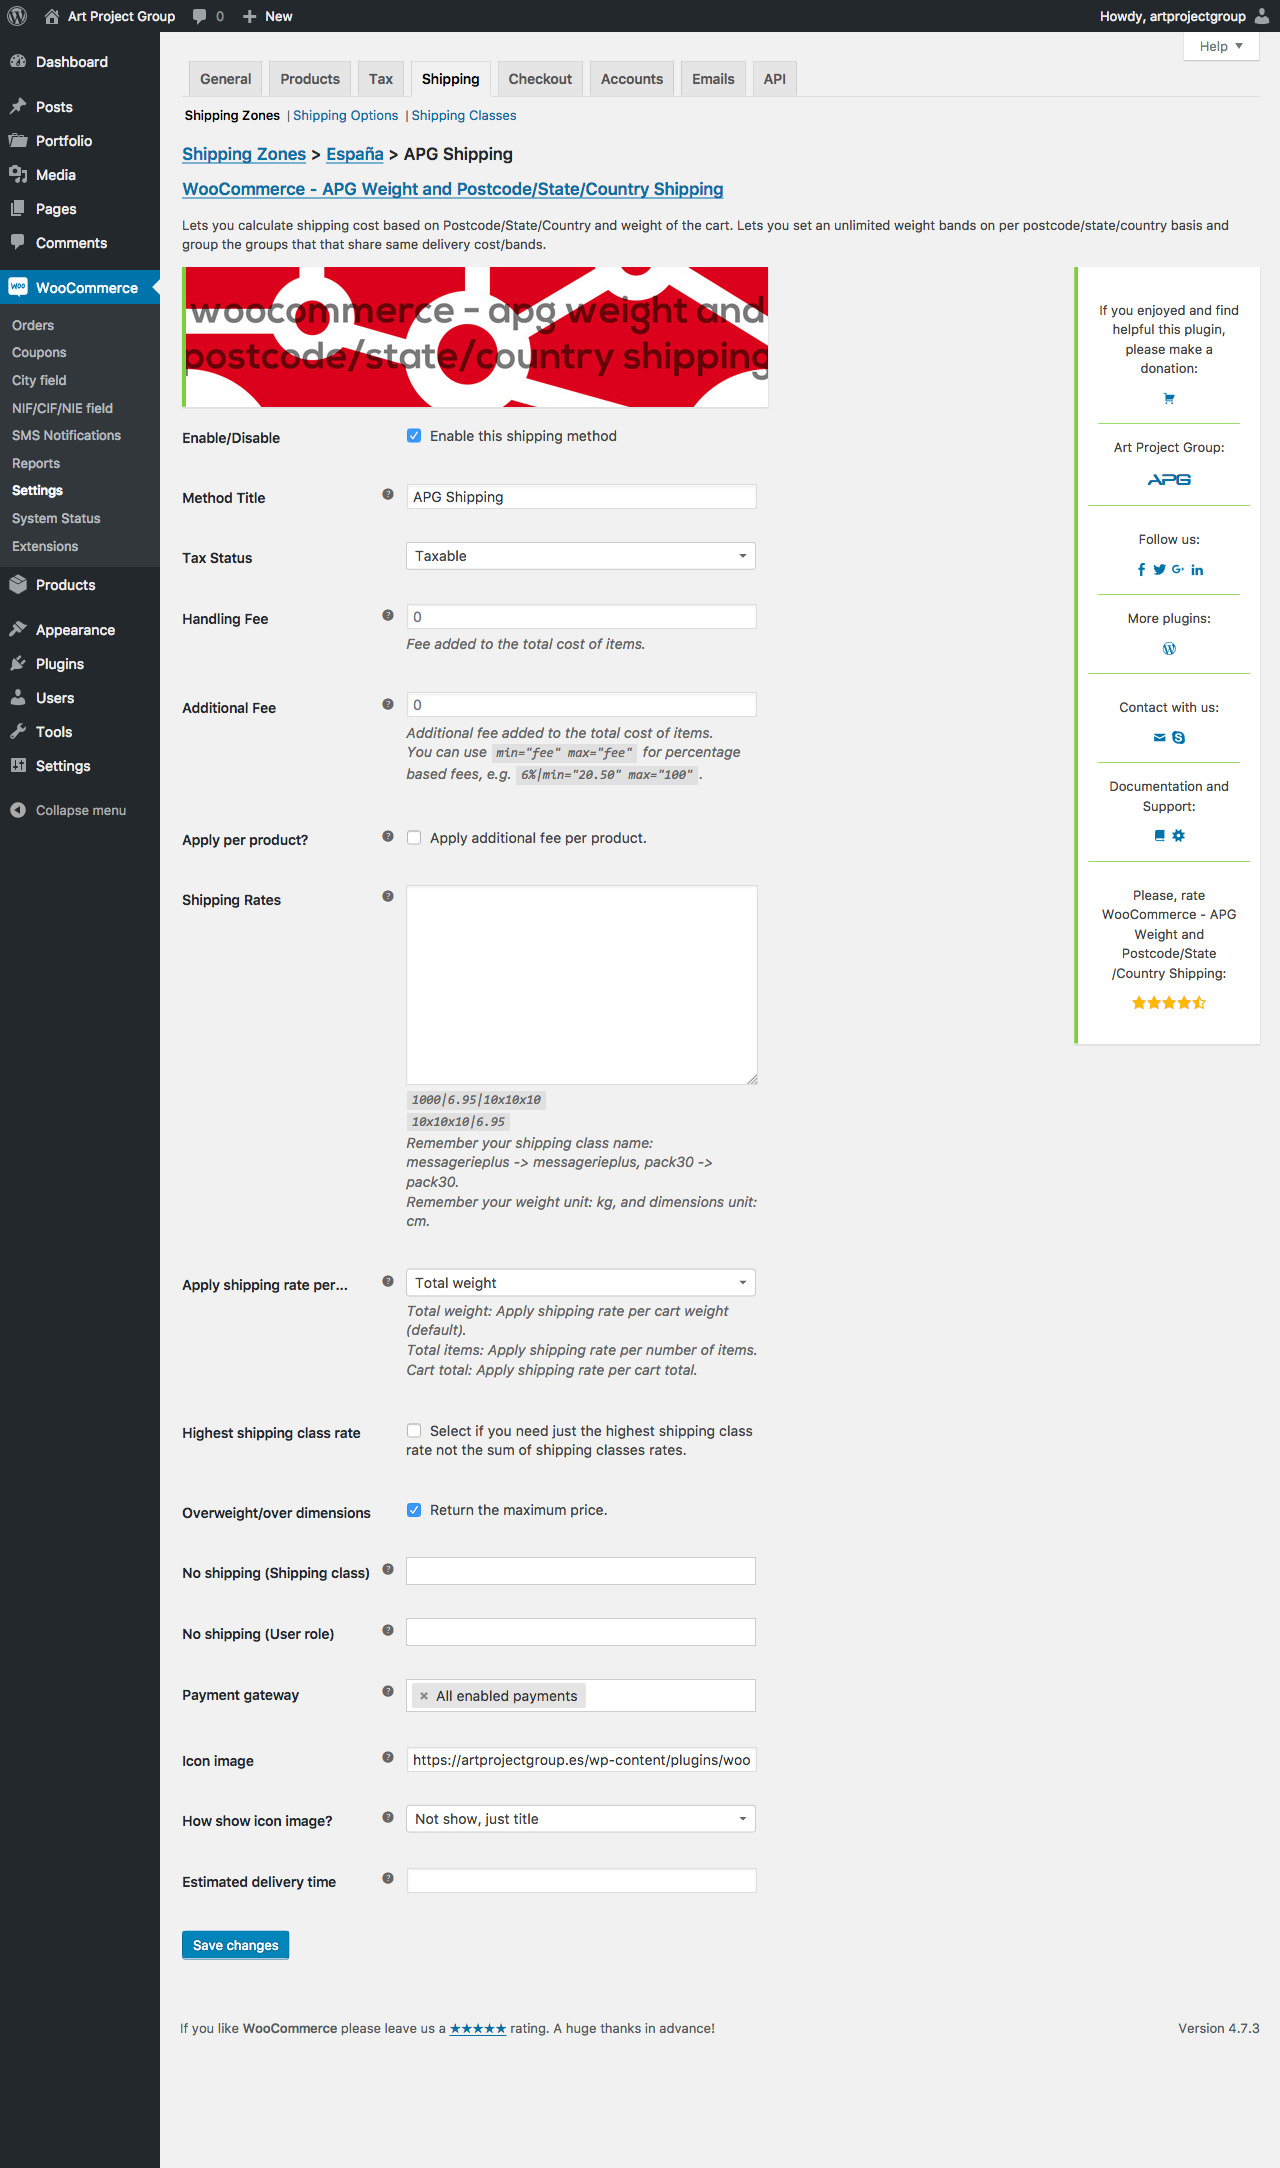
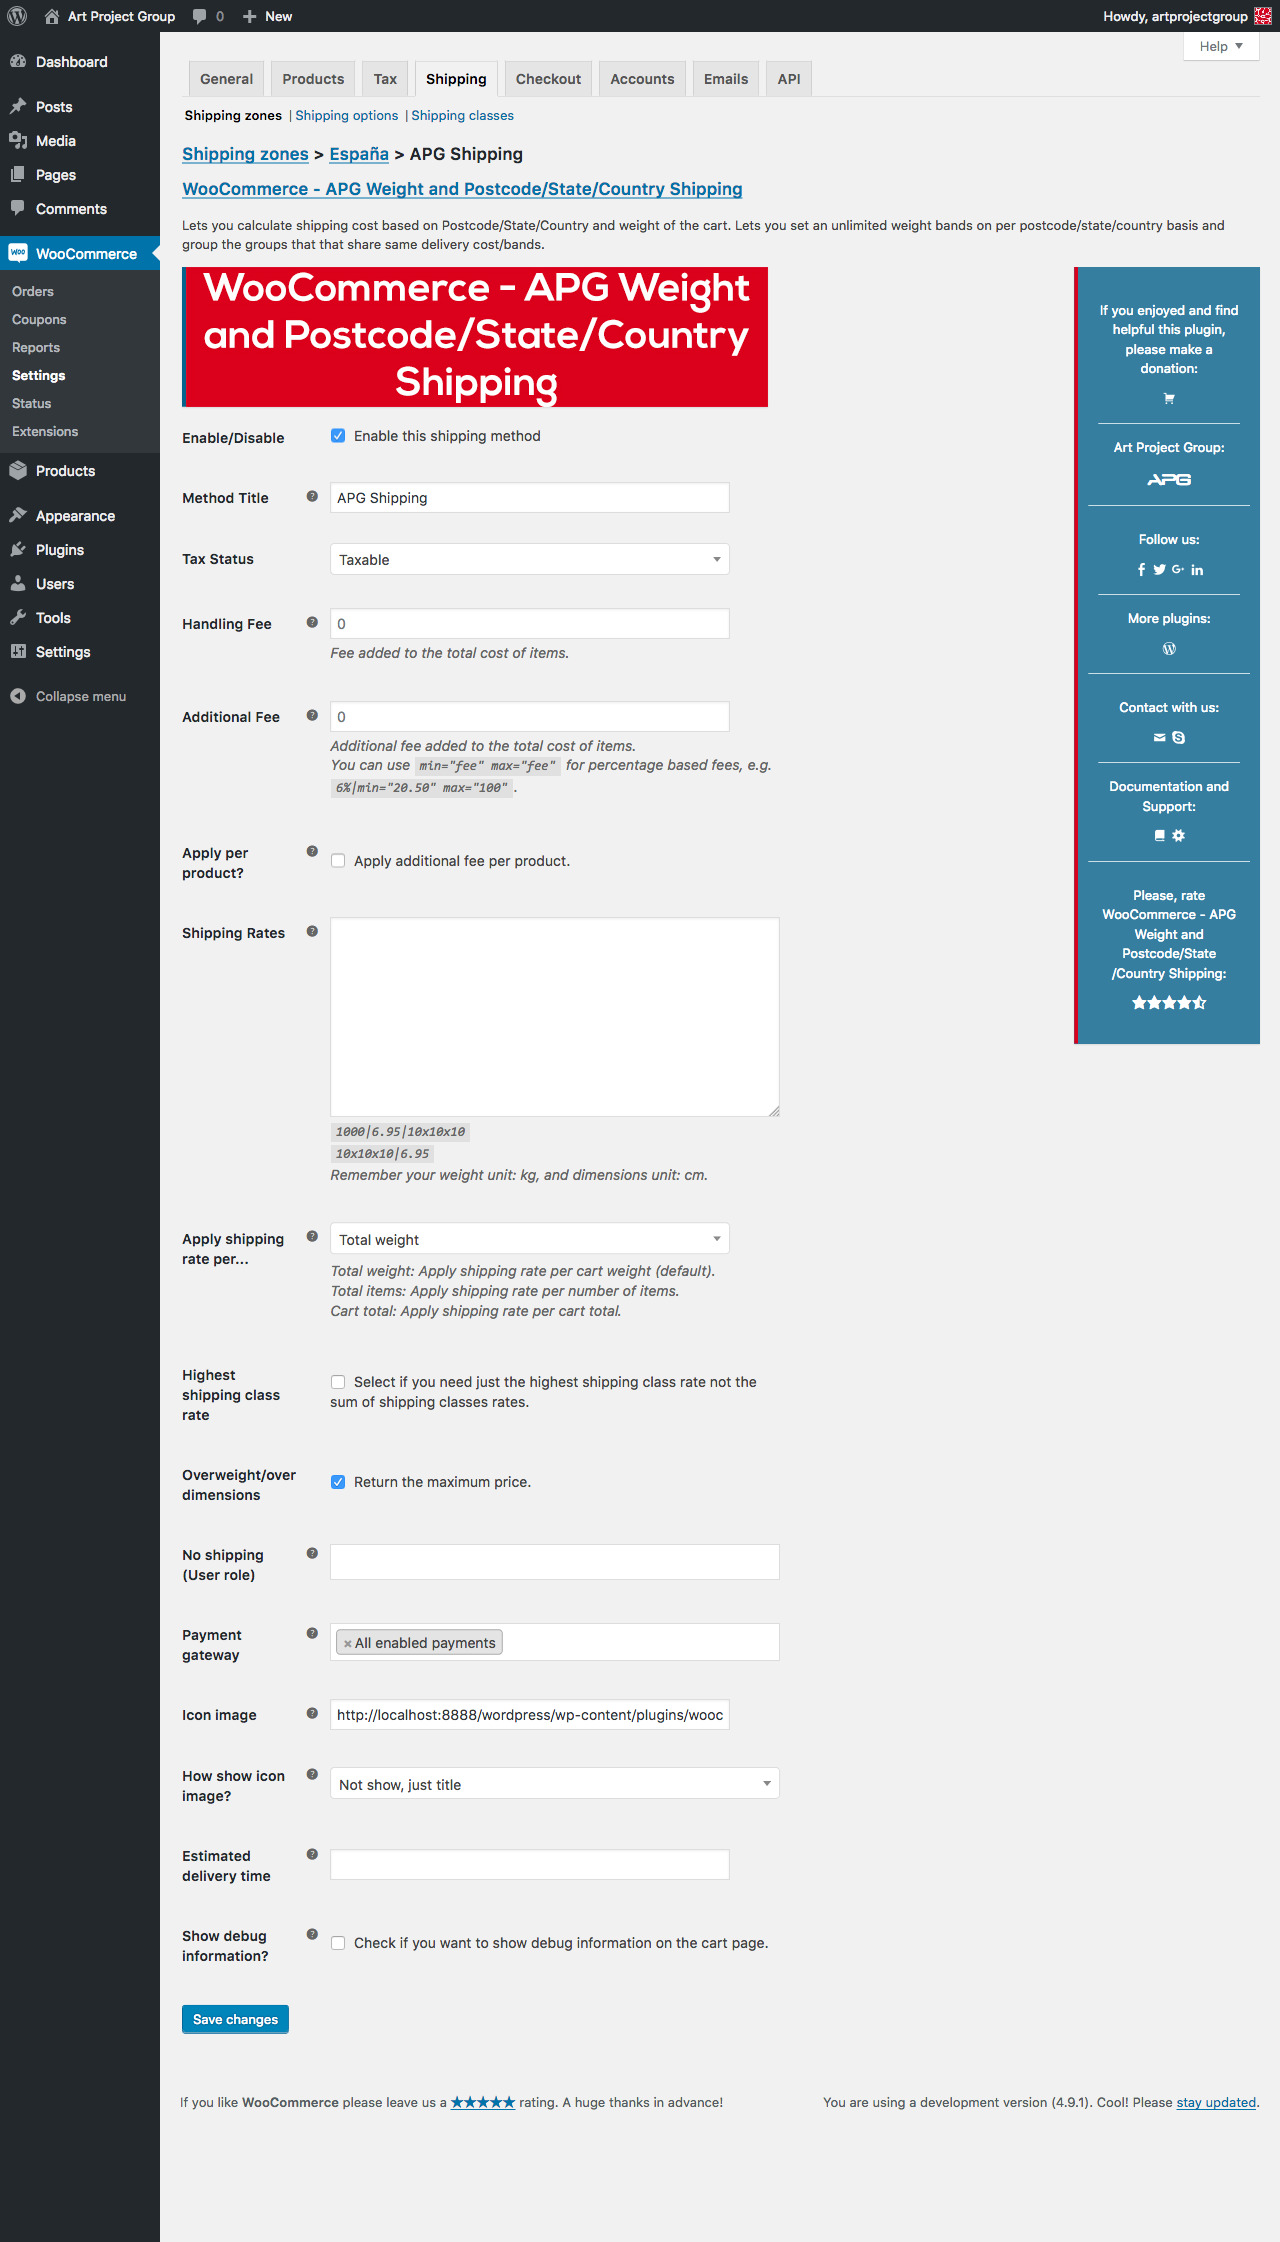
Versión 2.2.2.1

diff --git a/assets/css/style.css b/assets/css/style.css
@@ -7,12 +7,12 @@ table.apg-table, .cabecera {
 	max-width: 586px;
 }
 .imagen {
-	border-left: 4px solid #7AD03A;
+	border-left: 4px solid #07628c;
 	box-shadow: 0 1px 1px 0 rgba(0, 0, 0, 0.1);
 	max-width: 100%;
 	display: block;
 }
-.imagen:hover {
+.imagen:hover, .estrellas .star-rating .star:hover, div.informacion a:hover {
 	-ms-filter: "progid:DXImageTransform.Microsoft.Alpha(Opacity=80)";
 	filter: alpha(opacity=80);
 	-moz-opacity: 0.8;
@@ -22,26 +22,27 @@ table.apg-table, .cabecera {
 .estrellas div {
 	display: inline!important;
 }
-.estrellas div:hover {
-	color: #2ea2cc;
-}
 .estrellas .star-rating .star {
 	font-size: 18px;
 }
-div.informacion .genericon, div.informacion .estrellas .star-rating .star, div.informacion .artprojectgroup {
+div.informacion .estrellas .star-rating .star {
+	color: #fff;
+}
+.genericon, div.informacion .estrellas .star-rating .star, div.informacion .artprojectgroup {
 	width: 15px;
 	height: 15px;
 	font-size: 15px;
 }
 div.informacion {
-	background-color: #FFFFFF;
+	background-color: rgba(7,98,140,0.8);
 	float: right;
 	padding: 10px;
 	width: 15%;
 	max-width: 220px;
 	text-align: center;
-	border-left: 4px solid #7AD03A;
+	border-left: 4px solid #d9001d;
 	box-shadow: 0 1px 1px 0 rgba(0, 0, 0, 0.1);
+	color: #fff;
 }
 div.informacion div.fila {
 	padding: 10px 10px 0px;
@@ -49,7 +50,7 @@ div.informacion div.fila {
 	max-width: 190px;
 }
 div.informacion div.fila, div.informacion div.columna:nth-child(2n) {
-	border-top: 1px solid #7AD03A;
+	border-top: 1px solid #fff;
 }
 div.informacion div.fila:first-child {
 	border: none;
@@ -64,6 +65,7 @@ div.informacion div.fila.final {
 }
 div.informacion a {
 	text-decoration: none;
+	color: #fff;
 }
 table.apg-table select, table.apg-table textarea {
 	width: 100% !important;

diff --git a/apg-shipping.php b/apg-shipping.php
@@ -1,15 +1,15 @@
 <?php
 /*
 Plugin Name: WooCommerce - APG Weight and Postcode/State/Country Shipping
-Version: 2.2.2
+Version: 2.2.2.1
 Plugin URI: https://wordpress.org/plugins/woocommerce-apg-weight-and-postcodestatecountry-shipping/
 Description: Add to WooCommerce the calculation of shipping costs based on the order weight and postcode, province (state) and country of customer's address. Lets you add an unlimited shipping rates. Created from <a href="http://profiles.wordpress.org/andy_p/" target="_blank">Andy_P</a> <a href="http://wordpress.org/plugins/awd-weightcountry-shipping/" target="_blank"><strong>AWD Weight/Country Shipping</strong></a> plugin and the modification of <a href="http://wordpress.org/support/profile/mantish" target="_blank">Mantish</a> publicada en <a href="http://gist.github.com/Mantish/5658280" target="_blank">GitHub</a>.
 Author URI: https://artprojectgroup.es/
 Author: Art Project Group
 Requires at least: 3.8
-Tested up to: 4.9
+Tested up to: 4.9.1
 WC requires at least: 2.6
-WC tested up to: 3.2
+WC tested up to: 3.3
 
 Text Domain: woocommerce-apg-weight-and-postcodestatecountry-shipping
 Domain Path: /languages
@@ -32,7 +32,7 @@ $apg_shipping = array(
 	'plugin' 		=> 'WooCommerce - APG Weight and Postcode/State/Country Shipping', 
 	'plugin_uri' 	=> 'woocommerce-apg-weight-and-postcodestatecountry-shipping', 
 	'donacion' 		=> 'https://artprojectgroup.es/tienda/donacion',
-	'soporte' 		=> 'https://wcprojectgroup.es/tienda/ticket-de-soporte',
+	'soporte' 		=> 'https://artprojectgroup.es/tienda/ticket-de-soporte',
 	'plugin_url' 	=> 'https://artprojectgroup.es/plugins-para-wordpress/plugins-para-woocommerce/woocommerce-apg-weight-and-postcodestatecountry-shipping', 
 	'ajustes' 		=> 'admin.php?page=wc-settings&tab=shipping', 
 	'puntuacion' 	=> 'https://wordpress.org/support/view/plugin-reviews/woocommerce-apg-weight-and-postcodestatecountry-shipping'
@@ -565,20 +565,20 @@ if ( is_plugin_active( 'woocommerce/woocommerce.php' ) || is_network_only_plugin
 		if ( empty( $id ) ) {
 			return $medios;
 		}
-		$configuracion	= maybe_unserialize( get_option( 'woocommerce_apg_shipping_' . $id[1] .'_settings' ) );
+		$apg_shipping_settings	= maybe_unserialize( get_option( 'woocommerce_apg_shipping_' . $id[1] .'_settings' ) );
 		
 		if ( isset( $_POST['payment_method'] ) && !$medios ) {
 			$medios = $_POST['payment_method'];
 		}
 
-		if ( !empty( $configuracion['pago'] ) && $configuracion['pago'][0] != 'todos' ) {
+		if ( !empty( $apg_shipping_settings['pago'] ) && $apg_shipping_settings['pago'][0] != 'todos' ) {
 			foreach ( $medios as $nombre => $medio ) {
-				if ( is_array( $configuracion['pago'] ) ) {
-					if ( !in_array( $nombre, $configuracion['pago'] ) ) {
+				if ( is_array( $apg_shipping_settings['pago'] ) ) {
+					if ( !in_array( $nombre, $apg_shipping_settings['pago'] ) ) {
 						unset( $medios[$nombre] );
 					}
 				} else { 
-					if ( $nombre != $configuracion['pago'] ) {
+					if ( $nombre != $apg_shipping_settings['pago'] ) {
 						unset( $medios[$nombre] );
 					}
 				}
@@ -607,22 +607,22 @@ function apg_busca_en_array( $busqueda, $array_de_busqueda, $extricto = true ) {
 function apg_shipping_icono( $etiqueta, $metodo ) {
 	$gasto_de_envio	= explode( ":", $etiqueta );
 	$id				= explode( ":", $metodo->id );
-	$configuracion	= maybe_unserialize( get_option( 'woocommerce_apg_shipping_' . $id[1] .'_settings' ) );
+	$apg_shipping_settings	= maybe_unserialize( get_option( 'woocommerce_apg_shipping_' . $id[1] .'_settings' ) );
 	//¿Mostramos el icono?
-	if ( !empty( $configuracion['icono'] ) && @getimagesize( $configuracion['icono'] ) && $configuracion['muestra_icono'] != 'no' ) {
-		$tamano = @getimagesize( $configuracion['icono'] );
-		$imagen	= '<img class="apg_shipping_icon" src="' . $configuracion['icono'] . '" witdh="' . $tamano[0] . '" height="' . $tamano[1] . '" />';
-		if ( $configuracion['muestra_icono'] == 'delante' ) {
+	if ( !empty( $apg_shipping_settings['icono'] ) && @getimagesize( $apg_shipping_settings['icono'] ) && $apg_shipping_settings['muestra_icono'] != 'no' ) {
+		$tamano = @getimagesize( $apg_shipping_settings['icono'] );
+		$imagen	= '<img class="apg_shipping_icon" src="' . $apg_shipping_settings['icono'] . '" witdh="' . $tamano[0] . '" height="' . $tamano[1] . '" />';
+		if ( $apg_shipping_settings['muestra_icono'] == 'delante' ) {
 			$etiqueta = $imagen . ' ' . $etiqueta; //Icono delante
-		} else if ( $configuracion['muestra_icono'] == 'detras' ) {
+		} else if ( $apg_shipping_settings['muestra_icono'] == 'detras' ) {
 			$etiqueta = $gasto_de_envio[0] . ' ' . $imagen . ':' . $gasto_de_envio[1]; //Icono detrás
 		} else {
 			$etiqueta = $imagen . ':' . $gasto_de_envio[1]; //Sólo icono
 		}
 	}
 	//Tiempo de entrega
-	if ( !empty( $configuracion['entrega'] ) ) {
-		$etiqueta .= '<br /><small class="apg_shipping_delivery">' . sprintf( __( "Estimated delivery time: %s", 'woocommerce-apg-weight-and-postcodestatecountry-shipping' ), $configuracion['entrega'] ) . '</small>';
+	if ( !empty( $apg_shipping_settings['entrega'] ) ) {
+		$etiqueta .= '<br /><small class="apg_shipping_delivery">' . sprintf( __( "Estimated delivery time: %s", 'woocommerce-apg-weight-and-postcodestatecountry-shipping' ), $apg_shipping_settings['entrega'] ) . '</small>';
 	}
 	
 	return $etiqueta;
@@ -693,8 +693,8 @@ function apg_shipping_muestra_mensaje() {
 	wp_enqueue_style( 'apg_shipping_hoja_de_estilo', plugins_url( 'assets/css/style.css', __FILE__ ) ); //Carga la hoja de estilo global
 	wp_enqueue_script( 'apg_shipping_script', plugins_url( 'assets/js/apg-shipping.js', __FILE__ ) );
 
-	/*$configuracion = get_option( 'woocommerce_apg_shipping_settings' );
-	if ( !isset( $configuracion['maximo'] ) ) {
+	/*$apg_shipping_settings = get_option( 'woocommerce_apg_shipping_settings' );
+	if ( !isset( $apg_shipping_settings['maximo'] ) ) {
 		add_action( 'admin_notices', 'apg_shipping_actualizacion' ); //Comprueba si hay que mostrar el mensaje de actualización
 	}*/
 }

diff --git a/readme.md b/readme.md
@@ -7,13 +7,13 @@ Tags: Art Project Group, APG, Plugins, WooCommerce, e-Commerce, Commerce, Shop, 
 
 Requires at least: 3.8
 
-Tested up to: 4.9
+Tested up to: 4.9.1
 
-Stable tag: 2.2.2
+Stable tag: 2.2.2.1
 
 WC requires at least: 2.6
 
-WC tested up to: 3.2
+WC tested up to: 3.3
 
 License: GPLv3
 
@@ -53,7 +53,7 @@ Añade a WooCommerce el cálculo de los gastos de envío según el peso, dimensi
 * Italiano ([**Angelo Lazzari**](http://www.redtulp.com/)).
 
 ### Soporte técnico
-**Art Project Group** te ofrece [**Soporte técnico**](https://wcprojectgroup.es/tienda/ticket-de-soporte) para configurar o instalar ***WooCommerce - APG Weight and Postcode/State/Country Shipping***.
+**Art Project Group** te ofrece [**Soporte técnico**](https://artprojectgroup.es/tienda/ticket-de-soporte) para configurar o instalar ***WooCommerce - APG Weight and Postcode/State/Country Shipping***.
 
 ### Origen
 **WooCommerce - APG Weight and Postcode/State/Country Shipping** ha sido programado a partir del plugin [*AWD Weight/Country Shipping*](http://wordpress.org/plugins/awd-weightcountry-shipping/) de [Andy_P](http://profiles.wordpress.org/andy_p/) y la modificación de [Mantish](http://wordpress.org/support/profile/mantish) publicada en [GitHub](https://gist.github.com/Mantish/5658280), que, a pesar de su brillantez, no ofrecían todas las características que necesitábamos. Aún así su trabajo ha sido completamente imprescindible para la realización de este plugin.
@@ -90,11 +90,16 @@ Puedes seguir el desarrollo de este plugin en [Github](https://github.com/artpro
 Como la configuración del plugin es un poco compleja, hemos creado un tutorial donde explicamos paso a paso el proceso de configuración con un ejemplo real. Puedes visitarlo en [¿Cómo se configura WooCommerce – APG Weight and Postcode/State/Country Shipping?](https://artprojectgroup.es/como-se-configura-woocommerce-apg-weight-and-postcodestatecountry-shipping).
 
 ### Soporte técnico
-Si necesitas ayuda para configurar o instalar **WooCommerce - APG Weight and Postcode/State/Country Shipping**, **Art Project Group** te ofrece su servicio de [**Soporte técnico**](https://wcprojectgroup.es/tienda/ticket-de-soporte). 
+Si necesitas ayuda para configurar o instalar **WooCommerce - APG Weight and Postcode/State/Country Shipping**, **Art Project Group** te ofrece su servicio de [**Soporte técnico**](https://artprojectgroup.es/tienda/ticket-de-soporte). 
 
 *En ningún caso **Art Project Group** proporciona ningún tipo de soporte técnico gratuito.*
 
 ## Changelog
+### 2.2.2.1
+* Actualización de cabecera.
+* Actualización de hoja de estilo.
+* Actualización de captura de pantalla.
+
 ### 2.2.2
 * Corregido problema de compatibilidad con Polylang.
 * Añadido campo de depuración.
@@ -480,7 +485,7 @@ Si necesitas ayuda para configurar o instalar **WooCommerce - APG Weight and Pos
 * *Italiano*: da [**Angelo Lazzari**](http://www.redtulp.com/).
 
 ## Soporte técnico
-Dado que **WooCommerce - APG Weight and Postcode/State/Country Shipping** es totalmente gratuito, **Art Project Group** sólo proporciona el servicio de [**Soporte técnico**](https://wcprojectgroup.es/tienda/ticket-de-soporte) previo pago. En ningún caso **Art Project Group** proporciona ningún tipo de soporte técnico gratuito.
+Dado que **WooCommerce - APG Weight and Postcode/State/Country Shipping** es totalmente gratuito, **Art Project Group** sólo proporciona el servicio de [**Soporte técnico**](https://artprojectgroup.es/tienda/ticket-de-soporte) previo pago. En ningún caso **Art Project Group** proporciona ningún tipo de soporte técnico gratuito.
 
 ## Donación
 ¿Te ha gustado y te ha resultado útil **WooCommerce - APG Weight and Postcode/State/Country Shipping** en tu sitio web? Te agradeceríamos una [pequeña donación](https://artprojectgroup.es/tienda/donacion) que nos ayudará a seguir mejorando este plugin y a crear más plugins totalmente gratuitos para toda la comunidad WordPress.
